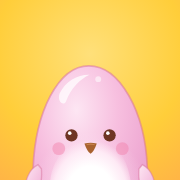
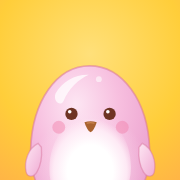
Make Pengu's head rounder and less long
The top of Pengu's dome comes down 16 units and its sides get fuller, so
Pengu is a round, chubby egg. The face, belly, flippers, scarf and feet
stay where they were. The gloss and the hats move down with the head.
The full figure and the bust frame the new shape, and the reward
sheet's big face gets the same lower dome.

The Home Screen icons, Apple touch icon, share image, favicon and the
busts on the privacy and 404 pages are redrawn from the new shape.

Claude-Session: https://claude.ai/code/session_01GxMePXZAC4qH6bgNMSMfQ8

diff --git a/site/404.html b/site/404.html
@@ -17,7 +17,37 @@
 <main class="not-found">
   <div class="not-found-inner">
     <!-- Pengu, a little puzzled -->
-    <svg viewBox="8 -14 105 112" class="py-art py-pengu-art not-found-art" aria-hidden="true" focusable="false"> <defs> <radialGradient id="pg3-body" cx="38%" cy="26%" r="80%"><stop offset="0" stop-color="#FDE6F3"></stop><stop offset=".45" stop-color="#F7BFDF"></stop><stop offset="1" stop-color="#E99BCB"></stop></radialGradient> <radialGradient id="pg3-belly" cx="50%" cy="58%" r="56%"><stop offset="0" stop-color="#FFFFFF"></stop><stop offset=".5" stop-color="#FFFFFF"></stop><stop offset=".8" stop-color="#FFF0F8" stop-opacity=".85"></stop><stop offset="1" stop-color="#FFF0F8" stop-opacity="0"></stop></radialGradient> <radialGradient id="pg3-glow" cx="50%" cy="62%" r="52%"><stop offset="0" stop-color="#FFFFFF" stop-opacity=".8"></stop><stop offset=".6" stop-color="#FFF0F8" stop-opacity=".35"></stop><stop offset="1" stop-color="#FFF0F8" stop-opacity="0"></stop></radialGradient> <linearGradient id="pg3-flip" x1="0" y1="0" x2="1" y2="1"><stop offset="0" stop-color="#FDE6F3"></stop><stop offset="1" stop-color="#F0ACD4"></stop></linearGradient> <clipPath id="pg3-egg"><path d="M59.5 12C82.5 12 101.5 46 103.2 88C104.8 120.5 86.5 140 61 140C35 140 16.4 122 17.8 89C19.3 47 36.5 12 59.5 12Z"></path></clipPath></defs> <g transform="rotate(-7 60 96)"><g class="py-pengu"> <g class="py-body"> <path d="M59.5 12C82.5 12 101.5 46 103.2 88C104.8 120.5 86.5 140 61 140C35 140 16.4 122 17.8 89C19.3 47 36.5 12 59.5 12Z" fill="url(#pg3-body)"></path> <path d="M37.5 33C42 23.5 51.5 18.5 60 18.8C53 22 46 29 42.5 38.5C41 42.3 35.6 39.5 37.5 33Z" fill="#FFFFFF" opacity=".72"></path> <circle cx="66.5" cy="22" r="2.2" fill="#FFFFFF" opacity=".55"></circle> </g> <g class="py-belly-glow"><path d="M60 52C88 51 104 80 103 110C102 133 84 146 59 146C33 146 16 132 17 108C18 79 33 53 60 52Z" fill="url(#pg3-glow)"></path></g> <g class="py-belly"><path d="M60.5 66C79.5 65 91.5 84 91 105C90.5 125 77 136.5 60 136.5C42.5 136.5 29.5 125 30 104.5C30.5 83.5 42 67 60.5 66Z" fill="url(#pg3-belly)"></path></g> <path d="M59.5 12C82.5 12 101.5 46 103.2 88C104.8 120.5 86.5 140 61 140C35 140 16.4 122 17.8 89C19.3 47 36.5 12 59.5 12Z" fill="none" stroke="#D9779F" stroke-opacity=".55" stroke-width="1.3"></path> <g class="py-flipper-l"><path d="M21.5 86C14.5 89.5 10.8 99 12.6 107.5C13.6 111.6 18.3 111.5 20.6 107.6C23.2 103.2 24.6 96 24 89Z" fill="url(#pg3-flip)" stroke="#D9779F" stroke-opacity=".5" stroke-width="1"></path></g> <g class="py-flipper-r"><path d="M99.5 86C106.5 89.5 110.2 99 108.4 107.5C107.4 111.6 102.7 111.5 100.4 107.6C97.8 103.2 96.4 96 97 89Z" fill="url(#pg3-flip)" stroke="#D9779F" stroke-opacity=".5" stroke-width="1"></path></g> <circle cx="37" cy="74" r="4.8" fill="#F27FA8" opacity=".45"></circle><circle cx="84.5" cy="74" r="4.8" fill="#F27FA8" opacity=".45"></circle> <g class="py-eye py-eye-l" transform="translate(-1.5 -1.8)"><circle cx="46.5" cy="64" r="4.6" fill="#6E3424"></circle><circle cx="45.2" cy="62.4" r="1.35" fill="#FFFFFF"></circle></g> <g class="py-eye py-eye-r" transform="translate(-1.5 -1.8)"><circle cx="75" cy="64" r="4.6" fill="#6E3424"></circle><circle cx="73.7" cy="62.4" r="1.35" fill="#FFFFFF"></circle></g> <g class="py-beak"><path d="M56.2 70.2Q60.8 68.8 65.4 70.2Q63.3 76.6 60.8 77.8Q58.3 76.6 56.2 70.2Z" fill="#A8622F"></path><path d="M58.2 70.9Q60.8 70.2 63.4 70.9" fill="none" stroke="#C9844F" stroke-width=".9" stroke-linecap="round"></path></g> </g></g> </svg>
+    <svg viewBox="8 2 105 112" class="py-art py-pengu-art not-found-art" aria-hidden="true" focusable="false">
+    <defs>
+  <radialGradient id="pg3-body" cx="38%" cy="26%" r="80%"><stop offset="0" stop-color="#FDE6F3"></stop><stop offset=".45" stop-color="#F7BFDF"></stop><stop offset="1" stop-color="#E99BCB"></stop></radialGradient>
+  <radialGradient id="pg3-belly" cx="50%" cy="58%" r="56%"><stop offset="0" stop-color="#FFFFFF"></stop><stop offset=".5" stop-color="#FFFFFF"></stop><stop offset=".8" stop-color="#FFF0F8" stop-opacity=".85"></stop><stop offset="1" stop-color="#FFF0F8" stop-opacity="0"></stop></radialGradient>
+  <radialGradient id="pg3-glow" cx="50%" cy="62%" r="52%"><stop offset="0" stop-color="#FFFFFF" stop-opacity=".8"></stop><stop offset=".6" stop-color="#FFF0F8" stop-opacity=".35"></stop><stop offset="1" stop-color="#FFF0F8" stop-opacity="0"></stop></radialGradient>
+  <linearGradient id="pg3-flip" x1="0" y1="0" x2="1" y2="1"><stop offset="0" stop-color="#FDE6F3"></stop><stop offset="1" stop-color="#F0ACD4"></stop></linearGradient>
+  <clipPath id="pg3-egg"><path d="M60 28C84.5 28 103.6 54 104.9 90C106.2 121.5 87.5 140 61 140C34.5 140 14.8 122.5 16 90C17.2 54.5 35.5 28 60 28Z"></path></clipPath></defs>
+    
+    <g transform="rotate(-7 60 96)"><g class="py-pengu">
+      
+      
+      <g class="py-body">
+        <path d="M60 28C84.5 28 103.6 54 104.9 90C106.2 121.5 87.5 140 61 140C34.5 140 14.8 122.5 16 90C17.2 54.5 35.5 28 60 28Z" fill="url(#pg3-body)"></path>
+        <path d="M34.5 49C39.5 39.5 50 34.3 59.5 34.8C52 38 44.5 45 40.5 54.5C38.8 58.3 32.6 55.5 34.5 49Z" fill="#FFFFFF" opacity=".72"></path>
+        <circle cx="67" cy="38" r="2.2" fill="#FFFFFF" opacity=".55"></circle>
+      </g>
+      <g class="py-belly-glow"><path d="M60 52C88 51 104 80 103 110C102 133 84 146 59 146C33 146 16 132 17 108C18 79 33 53 60 52Z" fill="url(#pg3-glow)"></path></g>
+      <g class="py-belly"><path d="M60.5 66C79.5 65 91.5 84 91 105C90.5 125 77 136.5 60 136.5C42.5 136.5 29.5 125 30 104.5C30.5 83.5 42 67 60.5 66Z" fill="url(#pg3-belly)"></path></g>
+      <path d="M60 28C84.5 28 103.6 54 104.9 90C106.2 121.5 87.5 140 61 140C34.5 140 14.8 122.5 16 90C17.2 54.5 35.5 28 60 28Z" fill="none" stroke="#D9779F" stroke-opacity=".55" stroke-width="1.3"></path>
+      
+      
+      <g class="py-flipper-l"><path d="M21.5 86C14.5 89.5 10.8 99 12.6 107.5C13.6 111.6 18.3 111.5 20.6 107.6C23.2 103.2 24.6 96 24 89Z" fill="url(#pg3-flip)" stroke="#D9779F" stroke-opacity=".5" stroke-width="1"></path></g>
+      <g class="py-flipper-r"><path d="M99.5 86C106.5 89.5 110.2 99 108.4 107.5C107.4 111.6 102.7 111.5 100.4 107.6C97.8 103.2 96.4 96 97 89Z" fill="url(#pg3-flip)" stroke="#D9779F" stroke-opacity=".5" stroke-width="1"></path></g>
+      <circle cx="37" cy="74" r="4.8" fill="#F27FA8" opacity=".45"></circle><circle cx="84.5" cy="74" r="4.8" fill="#F27FA8" opacity=".45"></circle>
+      <g class="py-eye py-eye-l" transform="translate(-1.5 -1.8)"><circle cx="46.5" cy="64" r="4.6" fill="#6E3424"></circle><circle cx="45.2" cy="62.4" r="1.35" fill="#FFFFFF"></circle></g>
+      <g class="py-eye py-eye-r" transform="translate(-1.5 -1.8)"><circle cx="75" cy="64" r="4.6" fill="#6E3424"></circle><circle cx="73.7" cy="62.4" r="1.35" fill="#FFFFFF"></circle></g>
+      <g class="py-beak"><path d="M56.2 70.2Q60.8 68.8 65.4 70.2Q63.3 76.6 60.8 77.8Q58.3 76.6 56.2 70.2Z" fill="#A8622F"></path><path d="M58.2 70.9Q60.8 70.2 63.4 70.9" fill="none" stroke="#C9844F" stroke-width=".9" stroke-linecap="round"></path></g>
+      
+      
+    </g></g>
+    </svg>
     <h1>This page isn’t on the route.</h1>
     <p class="lead">The link may be old or mistyped. Pengu is waiting on Today.</p>
     <a class="btn glass-coral" href="/">Back to Today</a>

diff --git a/site/privacy.html b/site/privacy.html
@@ -19,7 +19,37 @@
   <header class="doc-head">
     <div class="doc-top">
       <a class="doc-back glass" href="/"><svg class="icon" viewBox="0 0 24 24" aria-hidden="true" focusable="false"><path d="M14.9 5.4L8.3 12.1l6.7 6.6"/></svg>Pengyu</a>
-      <svg viewBox="8 -14 105 112" class="py-art py-pengu-art doc-art" aria-hidden="true" focusable="false"> <defs> <radialGradient id="pg1-body" cx="38%" cy="26%" r="80%"><stop offset="0" stop-color="#FDE6F3"></stop><stop offset=".45" stop-color="#F7BFDF"></stop><stop offset="1" stop-color="#E99BCB"></stop></radialGradient> <radialGradient id="pg1-belly" cx="50%" cy="58%" r="56%"><stop offset="0" stop-color="#FFFFFF"></stop><stop offset=".5" stop-color="#FFFFFF"></stop><stop offset=".8" stop-color="#FFF0F8" stop-opacity=".85"></stop><stop offset="1" stop-color="#FFF0F8" stop-opacity="0"></stop></radialGradient> <radialGradient id="pg1-glow" cx="50%" cy="62%" r="52%"><stop offset="0" stop-color="#FFFFFF" stop-opacity=".8"></stop><stop offset=".6" stop-color="#FFF0F8" stop-opacity=".35"></stop><stop offset="1" stop-color="#FFF0F8" stop-opacity="0"></stop></radialGradient> <linearGradient id="pg1-flip" x1="0" y1="0" x2="1" y2="1"><stop offset="0" stop-color="#FDE6F3"></stop><stop offset="1" stop-color="#F0ACD4"></stop></linearGradient> <clipPath id="pg1-egg"><path d="M59.5 12C82.5 12 101.5 46 103.2 88C104.8 120.5 86.5 140 61 140C35 140 16.4 122 17.8 89C19.3 47 36.5 12 59.5 12Z"></path></clipPath></defs> <g class="py-pengu"> <g class="py-body"> <path d="M59.5 12C82.5 12 101.5 46 103.2 88C104.8 120.5 86.5 140 61 140C35 140 16.4 122 17.8 89C19.3 47 36.5 12 59.5 12Z" fill="url(#pg1-body)"></path> <path d="M37.5 33C42 23.5 51.5 18.5 60 18.8C53 22 46 29 42.5 38.5C41 42.3 35.6 39.5 37.5 33Z" fill="#FFFFFF" opacity=".72"></path> <circle cx="66.5" cy="22" r="2.2" fill="#FFFFFF" opacity=".55"></circle> </g> <g class="py-belly-glow"><path d="M60 52C88 51 104 80 103 110C102 133 84 146 59 146C33 146 16 132 17 108C18 79 33 53 60 52Z" fill="url(#pg1-glow)"></path></g> <g class="py-belly"><path d="M60.5 66C79.5 65 91.5 84 91 105C90.5 125 77 136.5 60 136.5C42.5 136.5 29.5 125 30 104.5C30.5 83.5 42 67 60.5 66Z" fill="url(#pg1-belly)"></path></g> <path d="M59.5 12C82.5 12 101.5 46 103.2 88C104.8 120.5 86.5 140 61 140C35 140 16.4 122 17.8 89C19.3 47 36.5 12 59.5 12Z" fill="none" stroke="#D9779F" stroke-opacity=".55" stroke-width="1.3"></path> <g class="py-flipper-l"><path d="M21.5 86C14.5 89.5 10.8 99 12.6 107.5C13.6 111.6 18.3 111.5 20.6 107.6C23.2 103.2 24.6 96 24 89Z" fill="url(#pg1-flip)" stroke="#D9779F" stroke-opacity=".5" stroke-width="1"></path></g> <g class="py-flipper-r"><path d="M99.5 86C106.5 89.5 110.2 99 108.4 107.5C107.4 111.6 102.7 111.5 100.4 107.6C97.8 103.2 96.4 96 97 89Z" fill="url(#pg1-flip)" stroke="#D9779F" stroke-opacity=".5" stroke-width="1"></path></g> <circle cx="37" cy="74" r="4.8" fill="#F27FA8" opacity=".45"></circle><circle cx="84.5" cy="74" r="4.8" fill="#F27FA8" opacity=".45"></circle> <g class="py-eye py-eye-l"><circle cx="46.5" cy="64" r="4.6" fill="#6E3424"></circle><circle cx="45.2" cy="62.4" r="1.35" fill="#FFFFFF"></circle></g> <g class="py-eye py-eye-r"><circle cx="75" cy="64" r="4.6" fill="#6E3424"></circle><circle cx="73.7" cy="62.4" r="1.35" fill="#FFFFFF"></circle></g> <g class="py-beak"><path d="M56.2 70.2Q60.8 68.8 65.4 70.2Q63.3 76.6 60.8 77.8Q58.3 76.6 56.2 70.2Z" fill="#A8622F"></path><path d="M58.2 70.9Q60.8 70.2 63.4 70.9" fill="none" stroke="#C9844F" stroke-width=".9" stroke-linecap="round"></path></g> </g> </svg>
+      <svg viewBox="8 2 105 112" class="py-art py-pengu-art doc-art" aria-hidden="true" focusable="false">
+    <defs>
+  <radialGradient id="pg1-body" cx="38%" cy="26%" r="80%"><stop offset="0" stop-color="#FDE6F3"></stop><stop offset=".45" stop-color="#F7BFDF"></stop><stop offset="1" stop-color="#E99BCB"></stop></radialGradient>
+  <radialGradient id="pg1-belly" cx="50%" cy="58%" r="56%"><stop offset="0" stop-color="#FFFFFF"></stop><stop offset=".5" stop-color="#FFFFFF"></stop><stop offset=".8" stop-color="#FFF0F8" stop-opacity=".85"></stop><stop offset="1" stop-color="#FFF0F8" stop-opacity="0"></stop></radialGradient>
+  <radialGradient id="pg1-glow" cx="50%" cy="62%" r="52%"><stop offset="0" stop-color="#FFFFFF" stop-opacity=".8"></stop><stop offset=".6" stop-color="#FFF0F8" stop-opacity=".35"></stop><stop offset="1" stop-color="#FFF0F8" stop-opacity="0"></stop></radialGradient>
+  <linearGradient id="pg1-flip" x1="0" y1="0" x2="1" y2="1"><stop offset="0" stop-color="#FDE6F3"></stop><stop offset="1" stop-color="#F0ACD4"></stop></linearGradient>
+  <clipPath id="pg1-egg"><path d="M60 28C84.5 28 103.6 54 104.9 90C106.2 121.5 87.5 140 61 140C34.5 140 14.8 122.5 16 90C17.2 54.5 35.5 28 60 28Z"></path></clipPath></defs>
+    
+    <g class="py-pengu">
+      
+      
+      <g class="py-body">
+        <path d="M60 28C84.5 28 103.6 54 104.9 90C106.2 121.5 87.5 140 61 140C34.5 140 14.8 122.5 16 90C17.2 54.5 35.5 28 60 28Z" fill="url(#pg1-body)"></path>
+        <path d="M34.5 49C39.5 39.5 50 34.3 59.5 34.8C52 38 44.5 45 40.5 54.5C38.8 58.3 32.6 55.5 34.5 49Z" fill="#FFFFFF" opacity=".72"></path>
+        <circle cx="67" cy="38" r="2.2" fill="#FFFFFF" opacity=".55"></circle>
+      </g>
+      <g class="py-belly-glow"><path d="M60 52C88 51 104 80 103 110C102 133 84 146 59 146C33 146 16 132 17 108C18 79 33 53 60 52Z" fill="url(#pg1-glow)"></path></g>
+      <g class="py-belly"><path d="M60.5 66C79.5 65 91.5 84 91 105C90.5 125 77 136.5 60 136.5C42.5 136.5 29.5 125 30 104.5C30.5 83.5 42 67 60.5 66Z" fill="url(#pg1-belly)"></path></g>
+      <path d="M60 28C84.5 28 103.6 54 104.9 90C106.2 121.5 87.5 140 61 140C34.5 140 14.8 122.5 16 90C17.2 54.5 35.5 28 60 28Z" fill="none" stroke="#D9779F" stroke-opacity=".55" stroke-width="1.3"></path>
+      
+      
+      <g class="py-flipper-l"><path d="M21.5 86C14.5 89.5 10.8 99 12.6 107.5C13.6 111.6 18.3 111.5 20.6 107.6C23.2 103.2 24.6 96 24 89Z" fill="url(#pg1-flip)" stroke="#D9779F" stroke-opacity=".5" stroke-width="1"></path></g>
+      <g class="py-flipper-r"><path d="M99.5 86C106.5 89.5 110.2 99 108.4 107.5C107.4 111.6 102.7 111.5 100.4 107.6C97.8 103.2 96.4 96 97 89Z" fill="url(#pg1-flip)" stroke="#D9779F" stroke-opacity=".5" stroke-width="1"></path></g>
+      <circle cx="37" cy="74" r="4.8" fill="#F27FA8" opacity=".45"></circle><circle cx="84.5" cy="74" r="4.8" fill="#F27FA8" opacity=".45"></circle>
+      <g class="py-eye py-eye-l"><circle cx="46.5" cy="64" r="4.6" fill="#6E3424"></circle><circle cx="45.2" cy="62.4" r="1.35" fill="#FFFFFF"></circle></g>
+      <g class="py-eye py-eye-r"><circle cx="75" cy="64" r="4.6" fill="#6E3424"></circle><circle cx="73.7" cy="62.4" r="1.35" fill="#FFFFFF"></circle></g>
+      <g class="py-beak"><path d="M56.2 70.2Q60.8 68.8 65.4 70.2Q63.3 76.6 60.8 77.8Q58.3 76.6 56.2 70.2Z" fill="#A8622F"></path><path d="M58.2 70.9Q60.8 70.2 63.4 70.9" fill="none" stroke="#C9844F" stroke-width=".9" stroke-linecap="round"></path></g>
+      
+      
+    </g>
+    </svg>
     </div>
     <h1>Privacy</h1>
     <p class="lead">Your plan, workouts and Fish stay in this browser. No account. No tracking. No ads.</p>

diff --git a/site/js/pengyu/art.js b/site/js/pengyu/art.js
@@ -9,9 +9,11 @@ import { softRect, rng } from './ink.js';
 const NS = 'http://www.w3.org/2000/svg';
 let uid = 0;
 
-// ---------- Pengu, in its own 120-unit space: an egg from x 18 to 103 and y 12 to 140 ----------
-// Slightly wider on the right, like the lamp.
-const EGG = 'M59.5 12C82.5 12 101.5 46 103.2 88C104.8 120.5 86.5 140 61 140C35 140 16.4 122 17.8 89C19.3 47 36.5 12 59.5 12Z';
+// ---------- Pengu, in its own 120-unit space: a round egg from x 16 to 105 and y 28 to 140 ----------
+// Slightly wider on the right, like the lamp. HEAD: how far the top of the head sits below y 12, where the
+// hats were drawn.
+const HEAD = 16;
+const EGG = 'M60 28C84.5 28 103.6 54 104.9 90C106.2 121.5 87.5 140 61 140C34.5 140 14.8 122.5 16 90C17.2 54.5 35.5 28 60 28Z';
 const BELLY = 'M60.5 66C79.5 65 91.5 84 91 105C90.5 125 77 136.5 60 136.5C42.5 136.5 29.5 125 30 104.5C30.5 83.5 42 67 60.5 66Z';
 const GLOW = 'M60 52C88 51 104 80 103 110C102 133 84 146 59 146C33 146 16 132 17 108C18 79 33 53 60 52Z';
 const FLIP_L = 'M21.5 86C14.5 89.5 10.8 99 12.6 107.5C13.6 111.6 18.3 111.5 20.6 107.6C23.2 103.2 24.6 96 24 89Z';
@@ -120,8 +122,8 @@ function penguMarkup(look, { pose = 'stand', base = false } = {}) {
       ${pose === 'stand' && !base ? FEET : ''}
       <g class="py-body">
         <path d="${EGG}" fill="url(#${id}-body)"/>
-        <path d="M37.5 33C42 23.5 51.5 18.5 60 18.8C53 22 46 29 42.5 38.5C41 42.3 35.6 39.5 37.5 33Z" fill="#FFFFFF" opacity=".72"/>
-        <circle cx="66.5" cy="22" r="2.2" fill="#FFFFFF" opacity=".55"/>
+        <path d="M34.5 49C39.5 39.5 50 34.3 59.5 34.8C52 38 44.5 45 40.5 54.5C38.8 58.3 32.6 55.5 34.5 49Z" fill="#FFFFFF" opacity=".72"/>
+        <circle cx="67" cy="38" r="2.2" fill="#FFFFFF" opacity=".55"/>
       </g>
       <g class="py-belly-glow"><path d="${GLOW}" fill="url(#${id}-glow)"/></g>
       <g class="py-belly"><path d="${BELLY}" fill="url(#${id}-belly)"/></g>
@@ -135,7 +137,7 @@ function penguMarkup(look, { pose = 'stand', base = false } = {}) {
       <g class="py-eye py-eye-r"><circle cx="75" cy="64" r="4.6" fill="#6E3424"/><circle cx="73.7" cy="62.4" r="1.35" fill="#FFFFFF"/></g>
       <g class="py-beak"><path d="M56.2 70.2Q60.8 68.8 65.4 70.2Q63.3 76.6 60.8 77.8Q58.3 76.6 56.2 70.2Z" fill="#A8622F"/><path d="M58.2 70.9Q60.8 70.2 63.4 70.9" fill="none" stroke="#C9844F" stroke-width=".9" stroke-linecap="round"/></g>
       ${look.scarf ? `<g class="py-scarf">${pose === 'cab' ? SCARF_WIND : SCARF_TAIL}${SCARF_BAND}<ellipse cx="78.5" cy="97.5" rx="6" ry="5" fill="#F25A3A"/></g>` : ''}
-      ${look.hat && HATS[look.hat] ? `<g class="py-hat">${HATS[look.hat]}</g>` : ''}
+      ${look.hat && HATS[look.hat] ? `<g class="py-hat"><g transform="translate(0 ${HEAD})">${HATS[look.hat]}</g></g>` : ''}
     </g>
     ${lamp ? `
       <path d="M10.5 126Q10.5 137.5 60.5 137.5Q110.5 137.5 110.5 126V140Q110.5 152 60.5 152Q10.5 152 10.5 140Z" fill="url(#${id}-base)"/>
@@ -153,7 +155,7 @@ function svgEl(viewBox, cls) {
   return svg;
 }
 
-const VIEW = { stand: '0 -16 121 162', lamp: '-16 -20 153 180', bust: '8 -14 105 112' };
+const VIEW = { stand: '0 0 121 146', lamp: '-16 -20 153 180', bust: '8 2 105 112' };
 
 // pose: 'stand' (full body), 'bust' (head and shoulders, for the avatar and toasts). base: the lamp base.
 // (The old option name `view` still works.)
@@ -167,10 +169,10 @@ export function penguFigure(look, { cls = '', pose, view, base = false } = {}) {
 // The big simple face that rises like a sun on the reward sheet: happy closed eyes, beak, blush. It wears
 // the same hat as Pengu (the face is only the top of the head, so the scarf and pack stay out of view).
 // The space above the dome is kept for hats, with or without one, so the face never shifts.
-const FACE_HAT = 'translate(63 -28) scale(2)';
+const FACE_HAT = 'translate(63 2) scale(2)';
 export function faceFigure(cls = '', look = {}) {
   const id = `pf${++uid}`;
-  const svg = svgEl('0 -56 360 226', `py-art py-face ${cls}`.trim());
+  const svg = svgEl('0 -26 360 196', `py-art py-face ${cls}`.trim());
   const hat = look.hat && HATS[look.hat] ? `<g class="py-hat"><g transform="${FACE_HAT}">${HATS[look.hat]}</g></g>` : '';
   svg.innerHTML = `
     <defs>
@@ -178,10 +180,10 @@ export function faceFigure(cls = '', look = {}) {
       <radialGradient id="${id}-glow" cx="50%" cy="100%" r="60%"><stop offset="0" stop-color="#FFFFFF"/><stop offset=".55" stop-color="#FFF0F8" stop-opacity=".7"/><stop offset="1" stop-color="#FFF0F8" stop-opacity="0"/></radialGradient>
     </defs>
     <g class="py-face-body">
-      <path d="M8 170C10 78 88 12 182 12C276 12 352 80 352 170Z" fill="url(#${id}-body)"/>
+      <path d="M6 170C6 92 86 42 181 42C276 42 354 94 354 170Z" fill="url(#${id}-body)"/>
       <path d="M40 170C48 118 108 92 180 92C252 92 312 120 320 170Z" fill="url(#${id}-glow)"/>
-      <path d="M86 66C104 42 136 28 166 28C142 38 116 54 102 78C96 88 78 80 86 66Z" fill="#FFFFFF" opacity=".6"/>
-      <path d="M8 170C10 78 88 12 182 12C276 12 352 80 352 170" fill="none" stroke="#D9779F" stroke-opacity=".5" stroke-width="2"/>
+      <path d="M80 88C100 66 132 54 162 55C138 63 112 77 97 99C91 108 72 101 80 88Z" fill="#FFFFFF" opacity=".6"/>
+      <path d="M6 170C6 92 86 42 181 42C276 42 354 94 354 170" fill="none" stroke="#D9779F" stroke-opacity=".5" stroke-width="2"/>
       <circle cx="104" cy="122" r="14" fill="#F27FA8" opacity=".45"/><circle cx="258" cy="122" r="14" fill="#F27FA8" opacity=".45"/>
       <path d="M118 104Q133 88 148 103" fill="none" stroke="#6E3424" stroke-width="7" stroke-linecap="round"/>
       <path d="M214 103Q229 88 244 104" fill="none" stroke="#6E3424" stroke-width="7" stroke-linecap="round"/>
